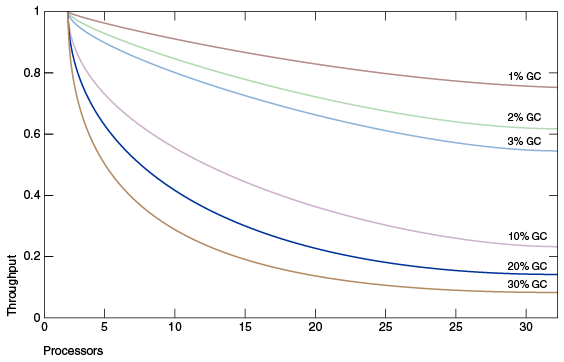
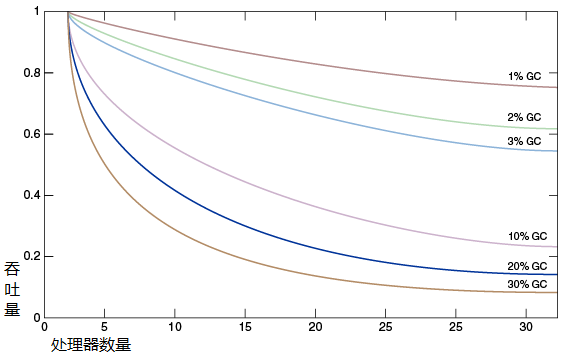
缺  阿姆达尔定律

Changed region(s): [[0.0603, 0.9116, 0.2411, 1.0], [0.0, 0.6989, 0.0301, 0.8812]]

diff --git a/gctuning/01_Introduction/README.md b/gctuning/01_Introduction/README.md
@@ -27,7 +27,7 @@ However, this selection may not be optimal for every application.
 
 Users, developers, and administrators with strict performance goals or other requirements may need to explicitly select the garbage collector and tune certain parameters to achieve the desired level of performance.
 
-本文的主要是为这些调优任务提供帮助信息。
+本文的主要目的是为这些调优任务提供帮助信息。
 
 This document provides information to help with these tasks. 
 
@@ -66,7 +66,7 @@ When does the choice of a garbage collector matter?
 
 For some applications, the answer is never. 
 
-也就是说，垃圾收集所占用的时间和产生的程序暂停对他们来说基本上没什么影响。
+也就是说，垃圾收集所占用的时间和产生的停顿对他们来说基本上没什么影响。
 
 That is, the application can perform well in the presence of garbage collection with pauses of modest frequency and duration. 
 
@@ -80,18 +80,64 @@ Amdahl's law (parallel speedup in a given problem is limited by the sequential p
 
 The graph in [Figure 1-1, "Comparing Percentage of Time Spent in Garbage Collection"](#Figure1-1) models an ideal system that is perfectly scalable with the exception of garbage collection (GC). The red line is an application spending only 1% of the time in garbage collection on a uniprocessor system. This translates to more than a 20% loss in throughput on systems with 32 processors. The magenta line shows that for an application at 10% of the time in garbage collection (not considered an outrageous amount of time in garbage collection in uniprocessor applications), more than 75% of throughput is lost when scaling up to 32 processors.
 
+
+**<a name="Figure1-1"> </a>图 1-1 对比垃圾回收占用时间的百分比**
+
 **<a name="Figure1-1"> </a>Figure 1-1 Comparing Percentage of Time Spent in Garbage Collection**
 
 ![](./gc_spent.png)
 
 
+关于 [图 1-1 的详细说明请点击这里](http://docs.oracle.com/javase/8/docs/technotes/guides/vm/gctuning/img_text/jsgct_dt_005_gph_pc_vs_tp.html)
+
+
 [Description of "Figure 1-1 Comparing Percentage of Time Spent in Garbage Collection"](http://docs.oracle.com/javase/8/docs/technotes/guides/vm/gctuning/img_text/jsgct_dt_005_gph_pc_vs_tp.html)
 
-This shows that negligible speed issues when developing on small systems may become principal bottlenecks when scaling up to large systems. However, small improvements in reducing such a bottleneck can produce large gains in performance. For a sufficiently large system, it becomes worthwhile to select the right garbage collector and to tune it if necessary.
 
-The serial collector is usually adequate for most "small" applications (those requiring heaps of up to approximately 100 megabytes (MB (on modern processors). The other collectors have additional overhead or complexity, which is the price for specialized behavior. If the application does not need the specialized behavior of an alternate collector, use the serial collector. One situation where the serial collector is not expected to be the best choice is a large, heavily threaded application that runs on a machine with a large amount of memory and two or more processors. When applications are run on such server-class machines, the parallel collector is selected by default. See the section [Ergonomics](../02_Ergonomics/).
+这个图说明的是,在小型系统上开发的程序，也许只是微不足道的速度问题，当扩大到大型系统时可能会成为主要的性能瓶颈。
 
-This document was developed using Java SE 8 on the Solaris operating system (SPARC Platform Edition) as the reference. However, the concepts and recommendations presented here apply to all supported platforms, including Linux, Microsoft Windows, the Solaris operating system (x64 Platform Edition), and OS X. In addition, the command line options mentioned are available on all supported platforms, although the default values of some options may be different on each platform.
+This shows that negligible speed issues when developing on small systems may become principal bottlenecks when scaling up to large systems. 
+
+但也许只需要小小的改进就能减少这样的瓶颈，在性能上获得巨大的收益。在足够大的系统上, 选择合适的垃圾收集器,并做必要的调优将会变得非常必要。
+
+However, small improvements in reducing such a bottleneck can produce large gains in performance. For a sufficiently large system, it becomes worthwhile to select the right garbage collector and to tune it if necessary.
+
+
+串行收集器通常来说足以应付那些 “小” 程序(只需要不到100MB内存空间)。
+
+The serial collector is usually adequate for most "small" applications (those requiring heaps of up to approximately 100 megabytes (MB (on modern processors). 
+
+其他的垃圾收集器都会有额外的开销或复杂性, 这就是专业行为的代价。
+
+The other collectors have additional overhead or complexity, which is the price for specialized behavior.
+
+如果应用程序不需要这些垃圾收集器的专业行为,建议使用串行收集器。
+
+If the application does not need the specialized behavior of an alternate collector, use the serial collector. 
+
+串行收集器不太适合用来处理运行在多核CPU上的大型应用程序, 特别是有大量线程，占用很多内存的那些应用。
+
+One situation where the serial collector is not expected to be the best choice is a large, heavily threaded application that runs on a machine with a large amount of memory and two or more processors. 
+
+当程序在服务器级别的机器上执行时, 默认会使用并行垃圾收集器。
+
+When applications are run on such server-class machines, the parallel collector is selected by default.
+
+详情请参考  [Ergonomics](../02_Ergonomics/) 章节.
+
+See the section [Ergonomics](../02_Ergonomics/).
+
+本文档最初是基于Java SE 8编写的，系统平台是 SPARC - Solaris。
+
+This document was developed using Java SE 8 on the Solaris operating system (SPARC Platform Edition) as the reference. 
+
+但相关的概念和建议适用于所有平台, 包括 Linux， Windows，X64版本的Solaris，以及 OS X。
+
+However, the concepts and recommendations presented here apply to all supported platforms, including Linux, Microsoft Windows, the Solaris operating system (x64 Platform Edition), and OS X.
+
+另外， 所使用的命令行参数/选型也适用于所有平台，当然，某些平台上这些参数的默认值会不一样。
+
+In addition, the command line options mentioned are available on all supported platforms, although the default values of some options may be different on each platform.
 
 
 
